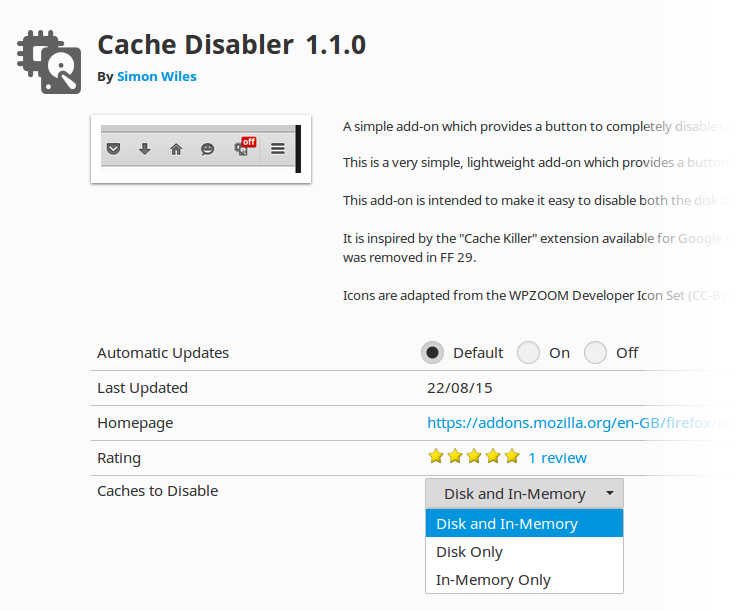
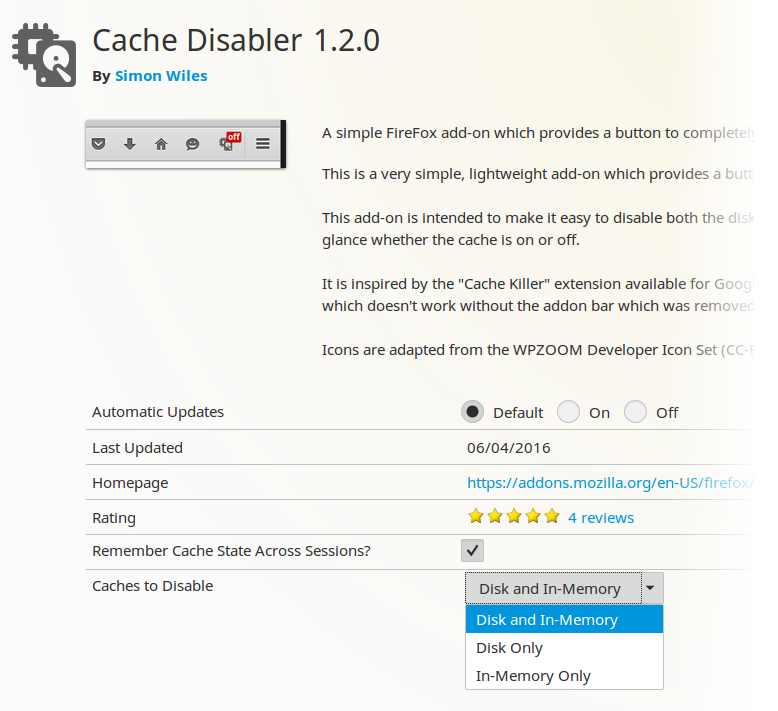
version 1.2.0

Changed region(s): [[0.0, 0.0311, 0.9674, 0.4354], [0.1248, 0.5597, 0.9674, 0.9951], [0.4057, 0.4664, 0.9674, 0.4975]]

diff --git a/src/index.js b/src/index.js
@@ -1,6 +1,6 @@
 /* ***** BEGIN LICENSE BLOCK *****
  *
- * Copyright 2015 Simon Wiles
+ * Copyright 2015-6 Simon Wiles
  *
  * This Source Code Form is subject to the terms of the Mozilla Public
  * License, v. 2.0. If a copy of the MPL was not distributed with this
@@ -15,10 +15,21 @@
 (function(){
 
   var buttons = require("sdk/ui/button/action"),
+
+      // for getting and setting Firefox's internal preferences
       prefsService = require("sdk/preferences/service"),
+
+      // set-up event to monitor for changes to Firefox's internal cache preferences
       { PrefsTarget } = require("sdk/preferences/event-target"),
       cachePrefsTarget = new PrefsTarget({ branchName: "browser.cache." }),
+
+      // for dealing with the add-on's own preferences
       simplePrefs = require("sdk/simple-prefs"),
+
+      // for persistence across sessions
+      ss = require("sdk/simple-storage"),
+
+      // some constants
       icons = {
         false: ["./disk_and_memory-light.svg", "./disk-light.svg", "./memory-light.svg"],
         true: ["./disk_and_memory-dark.svg", "./disk-dark.svg", "./memory-dark.svg"],
@@ -35,11 +46,6 @@
       ],
       cachesToDisable = cachePrefs[simplePrefs.prefs.cachesToDisable];
 
-  exports.onUnload = function(reason) {
-    // reset built-in prefs to defaults on unload.
-    cachePrefsTarget.off();
-    resetAllPrefs();
-  };
 
   function themeIsDark() {
     // This is unsatisfactory, but better than nothing.
@@ -58,36 +64,54 @@
 
   function resetAllPrefs() {
     cachePrefs[0].forEach(function(cachePref) { prefsService.reset(cachePref); });
+    updateButtonBadge();
   }
 
-  function updateButtonState() {
-    button.cacheOn = cachesToDisable.every(cachePref => prefsService.get(cachePref));
-    button.badge = (button.cacheOn) ? "" : "off";
-    button.icon = icons[themeIsDark()][simplePrefs.prefs.cachesToDisable];
+  function updateButtonBadge() {
+    button.badge = (ss.storage.cachesDisabled) ? "off" : "";
+  }
+
+  function setCaches(state) {
+    cachesToDisable.forEach(function(cachePref) { prefsService.set(cachePref, !state); });
   }
 
   var button = buttons.ActionButton({
     id: "cache-toggle-button",
     label: "Cache Disabler: " + labels[simplePrefs.prefs.cachesToDisable],
     icon: icons[themeIsDark()][simplePrefs.prefs.cachesToDisable],
-    cacheOn: true,
-    onClick: function(state) {
-      var enable = !button.cacheOn;
-      cachesToDisable.forEach(function(cachePref) { prefsService.set(cachePref, enable); });
+    onClick: function() {
+      ss.storage.cachesDisabled = !ss.storage.cachesDisabled;
+      setCaches(ss.storage.cachesDisabled);
     }
   });
 
+  exports.onUnload = function(reason) {
+    // reset built-in prefs to defaults on unload.
+    cachePrefsTarget.off();
+    resetAllPrefs();
+  };
+
   // monitor changes to cache states (which may or may not have been instigated by this add-on)
-  cachePrefsTarget.on("", updateButtonState);
+  // note: this will fire twice if both caches (disk and in-memory) are being managed
+  cachePrefsTarget.on("", updateButtonBadge);
 
   // monitor changes to this add-on's own prefs
   simplePrefs.on("cachesToDisable", function() {
     cachesToDisable = cachePrefs[simplePrefs.prefs.cachesToDisable];
     button.label = "Cache Disabler: " + labels[simplePrefs.prefs.cachesToDisable];
+    button.icon = icons[themeIsDark()][simplePrefs.prefs.cachesToDisable];
+    ss.storage.cachesDisabled = false;
     resetAllPrefs();
   });
 
+  if (!simplePrefs.prefs.rememberCacheState || ss.storage.cachesDisabled === undefined) {
+    // read current state of Firefox cache preferences, and use that value
+    ss.storage.cachesDisabled = cachesToDisable.every(cachePref => !prefsService.get(cachePref));
+  } else {
+    setCaches(ss.storage.cachesDisabled);
+  }
+
   // configure the button in the correct state
-  updateButtonState();
+  updateButtonBadge();
 
 })();

diff --git a/README.md b/README.md
@@ -1,7 +1,7 @@
 #Cache Disabler
-A simple FireFox add-on which provides a button to completely disable (and re-enable) the cache with a single click.
+A simple FireFox add-on which provides a button to completely disable (and re-enable) disk and/or in-memory caches with a single click.
 
-This add-on is intended to make it easy to disable both the disk and in the in-memory caches, and to serve as an indicator of the cache state, so you can see at a glance whether the cache is on or off.
+This add-on is intended to make it easy to disable both the disk and in in-memory caches, and to serve as an indicator of the cache state, so you can see at a glance whether the cache is on or off.  Following a user request, version 1.2 includes the option to remember the state of the managed caches across sessions.
 
 It is inspired by the "Cache Killer" extension available for Google Chrome. There is the "CacheToggle" add-on for FireFox which appears to address a similar need, but which doesn't work without the addon bar which was removed in FF 29.
 
